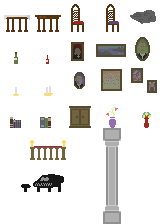
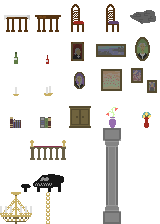
Edición niveles + mejoras tontas

diff --git a/level.cpp b/level.cpp
@@ -83,7 +83,20 @@ level::level(const string & filename, juego* game){
 	pointsText = leonardo->textureFromText("0 1 2 3 4 5 6 7 8 9  ", 2, 255, 255, 255);
 	pointsText2 = leonardo->textureFromText("0123456789", 0, 255, 255, 255);
 	
-	puerta = new door(doorSheet, 992, 352, true); //default
+	if (lvlType == 2){
+		bossText = leonardo->textureFromText("BOSS", 3, 180, 0, 0);
+	} else {
+		bossText = NULL;
+	}
+	
+	if (lvlType == 0){
+		puerta = new door(doorSheet, 992, 352, false);
+	} else if ((lvlType == 1) || (lvlType == 2)){
+		puerta = new door(doorSheet, 992, 352, true); //default
+	} else if (lvlType == 3){
+		puerta = NULL;
+	}
+	
 	llave = NULL;
 	
 	
@@ -418,7 +431,7 @@ void level::updateEnemies(){
 				
 				addPoints((*it)->getMaxLives()*100, x, y);
 				
-				if ((llave == NULL) && (rand()%enemyList.size() == 0)){
+				if ((lvlType == 1) && (llave == NULL) && (rand()%enemyList.size() == 0)){
 					llave = new key(doorSheet, x, y);
 				}
 				
@@ -645,6 +658,10 @@ void level::addPickup(pickup* p){
 	pickupList.push_back(p);
 }
 
+void level::addKey(int X, int Y){
+	llave = new key(doorSheet, X, Y);
+}
+
 void level::draw(){
 	// background
 	leonardo->draw(background, 0, 0, 960, 448, 192, 0);
@@ -704,8 +721,18 @@ void level::draw(){
 	}
 	
 	// texto/UI
-	leonardo->draw(testText, 0, 0, 0, 0, 24, 108);
-	leonardo->draw(levelNumText, 0, 0, 0, 0, 1175, 64);
+	if (testText != NULL){
+		leonardo->draw(testText, 0, 0, 0, 0, 24, 108);
+	}
+	
+	if ((levelNumText != NULL) && (bossText == NULL)){
+		leonardo->draw(levelNumText, 0, 0, 0, 0, 1175, 64);
+	}
+	
+	if (bossText != NULL){
+		leonardo->draw(bossText, 0, 0, 0, 0, 1200, 64);
+	}
+	
 	drawPoints();
 }
 
@@ -851,7 +878,17 @@ int level::load(std::istream& is, map<string, pair<int, int> >& posEnSheet){
 
 		// muestro el nombre de la sección, por qué no?
 		std::cout << str << std::endl;
-	
+		if (str == "type"){
+			ignore(is);
+			is >> lvlType; //Cargo tipo
+			std::cout << "tipoNivel: " << lvlType << std::endl;
+			if (lvlType > 3){
+				std::cout << "Archivo corrupto!\n";
+				return 0;
+			}
+			ignore(is);
+		}
+		
 		if (str == "tiles"){
 			ignore(is);
 			is >> rug; //Cargo rug

diff --git a/level.h b/level.h
@@ -62,10 +62,11 @@ public:
 	// Estas funciones deberían haber tenido un parámetro "tipo" y que acá se creen, 
 	// en vez de que se les pase un puntero. Así el nivel maneja los recursos y no las otras cosas... 
 	// Soy un idiota.
-	void addBullet(bullet*); 	//agrega una bala del jugador a la escena
-	void addEnemyBullet(enemyBullet*); //agrega una bala de enemigo a la escena
-	void addEmitter(emitter*); //agrega un emisor de partículas a la escena
-	void addPickup(pickup*);	//agrega un pickup a la escena
+	void addBullet(bullet*); 			//agrega una bala del jugador a la escena
+	void addEnemyBullet(enemyBullet*); 	//agrega una bala de enemigo a la escena
+	void addEmitter(emitter*); 			//agrega un emisor de partículas a la escena
+	void addPickup(pickup*);			//agrega un pickup a la escena
+	void addKey(int x, int y);			//agrega una llave en la posición correspondiente
 	
 	// No lo pienso arreglar.
 	// En vez de eso, vamos a crear una función que me devuelva el spritesheet de efectos.
@@ -142,8 +143,12 @@ private:
 	LTexture* testText; //Texto de prueba
 	LTexture* pointsText; //texto de puntos
 	LTexture* pointsText2; //texto de puntos2
+	
 	unsigned int levelnum;
 	LTexture* levelNumText;
+	LTexture* bossText;
+	
+	unsigned int lvlType;
 	
 };
 

diff --git a/enemies/vlad.cpp b/enemies/vlad.cpp
@@ -69,6 +69,10 @@ vlad::~vlad(){
 void vlad::step(level* lvl){
 	
 	if (alive){
+	
+		if (lives == 0){
+			lvl->addKey(x, y);
+		}
 		
 		if (spdX>=0){
 			runSpriteTop->setSpeed(0.08);
@@ -279,9 +283,11 @@ void vlad::step(level* lvl){
 				x = 192+colDisplace*32-32+(colBox.w+(colBox.x-x));
 			else
 				x = 192+colDisplace*32-(colBox.x-x);
+
 			facingRight = !facingRight;
 			spdX *= -1;
 			colBox.x = x+12;
+				
 		}
 		
 			
@@ -407,8 +413,17 @@ void vlad::draw(painter* pintor){
 			runSpriteTop->draw(pintor, x, y+7-up);
 		}
 		
-		
 		spritesheet->setAlpha(255);
+		
+		//barra
+		pintor->setColor(0x17, 0x17, 0x17, 255);
+		pintor->drawRect(260, 64, 820, 16, 1);
+		pintor->setColor(180, 0, 0, 255);
+		pintor->drawRect(260, 64, 820*(lives/double(maxLives)), 16, 1);
+		pintor->setColor(180, 180, 180, 255);
+		pintor->drawRect(260, 64, 820, 16, 0);
+		pintor->drawRect(259, 63, 822, 18, 0);
+		pintor->setColor(0x17, 0x17, 0x17, 255);
 	}
 	//enemy::draw(pintor);
 	

diff --git a/juego.cpp b/juego.cpp
@@ -36,6 +36,8 @@ juego::juego(painter* p){
 	posEnSheet["columna2"] = make_pair(3, 6);
 	posEnSheet["butaca0"] = make_pair(0, 5);
 	posEnSheet["piano0"] = make_pair(1, 5);
+	posEnSheet["candelabro0"] = make_pair(0, 6);
+	posEnSheet["cadena0"] = make_pair(1, 6);
 	/*
 	std::cout << "Tamaño mapa: " << posEnSheet.size() << std::endl;
 	
